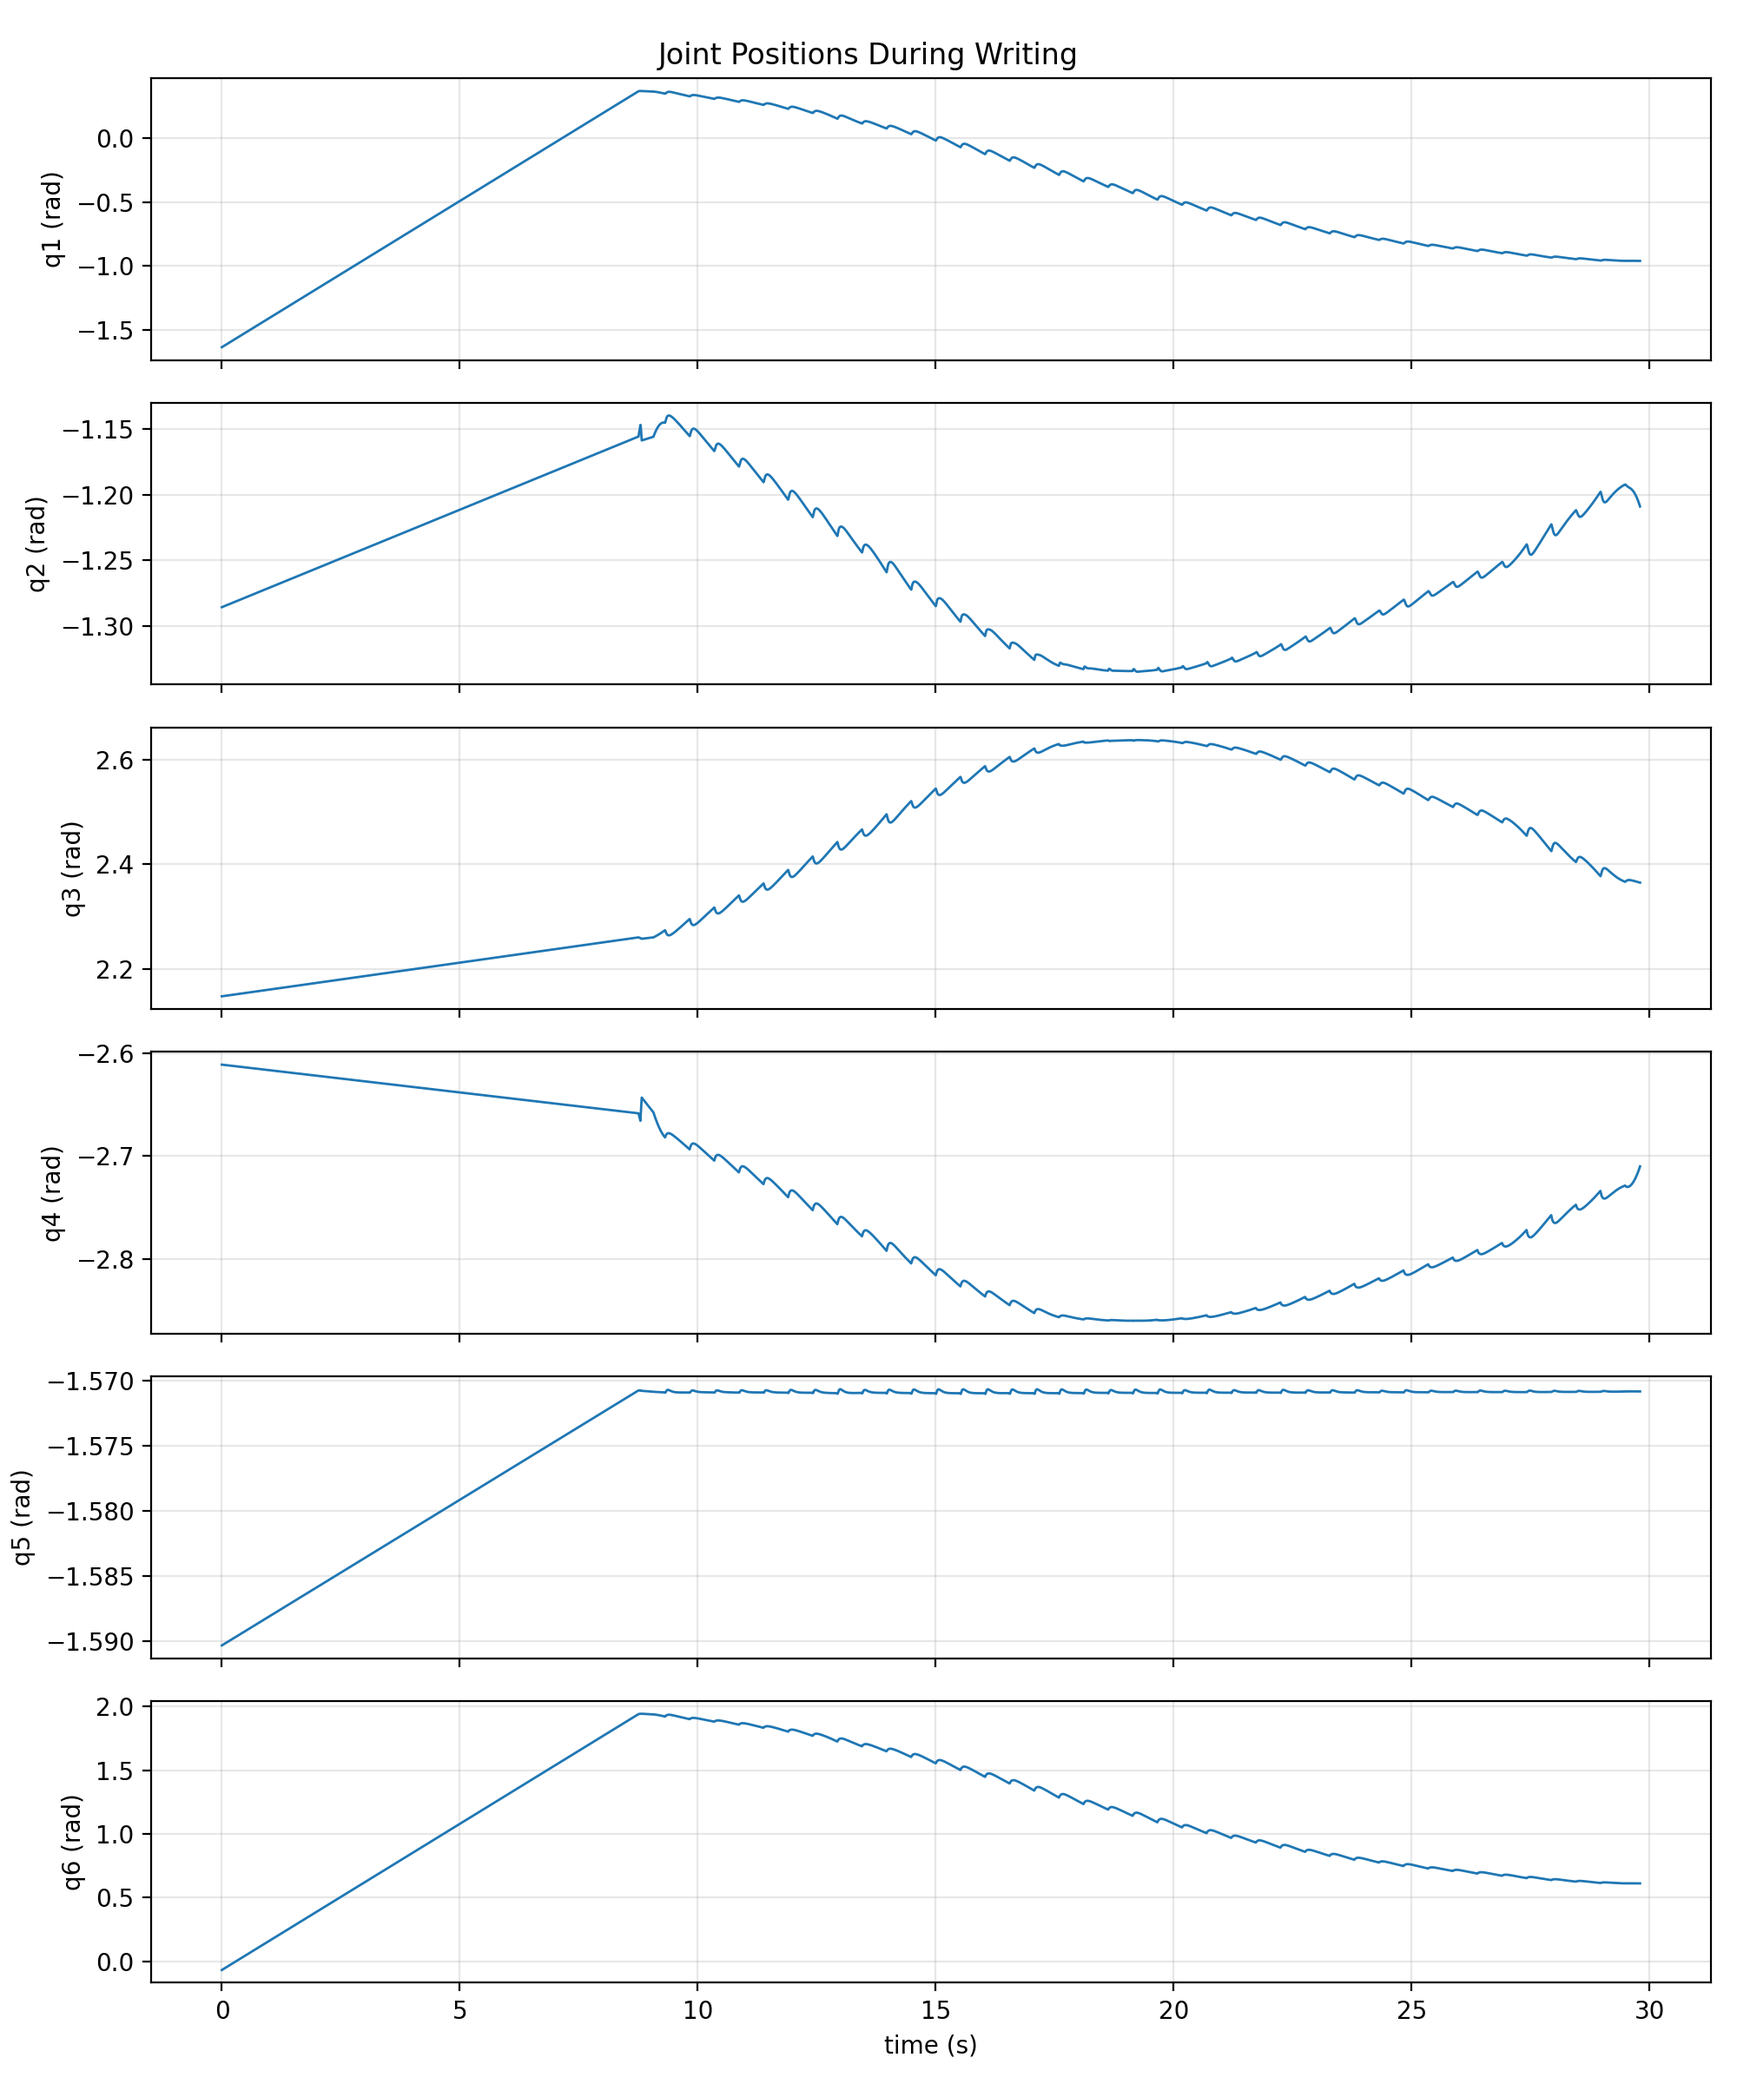
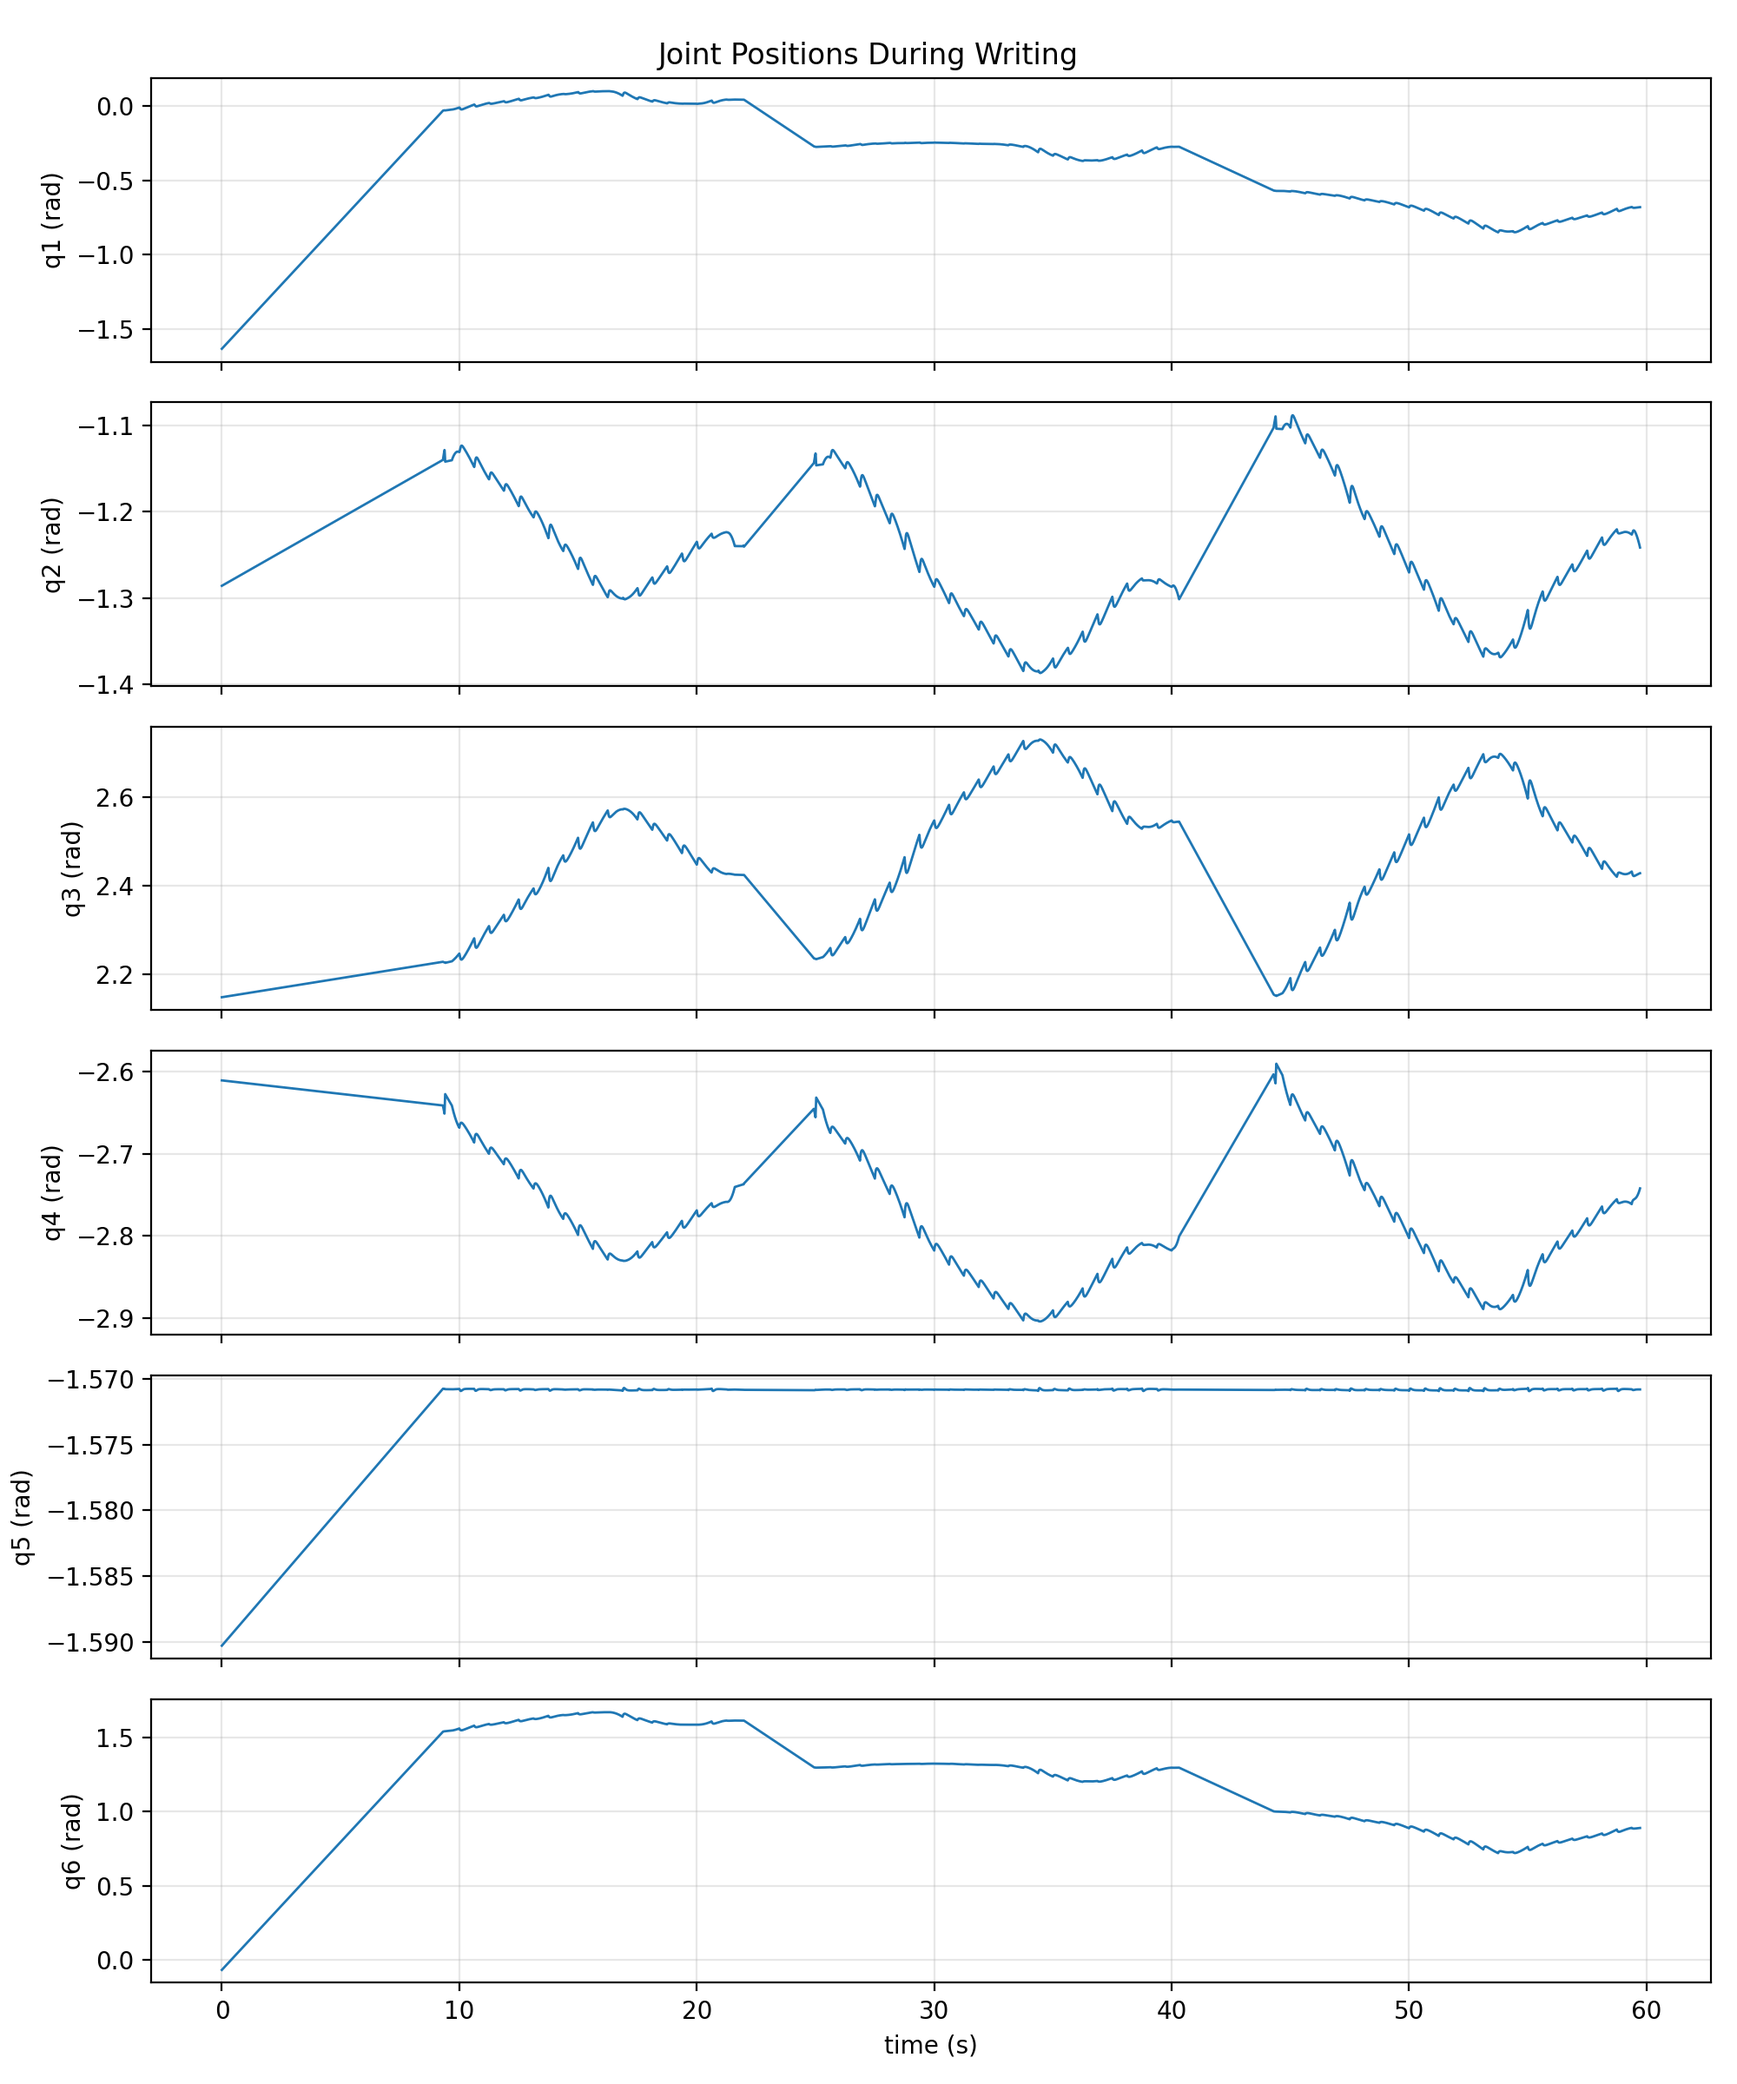
改了planning的曲面作图，哦对，我把curve_switch置为Fasle了

diff --git a/Project/SIST_SI100B_RoboWriter-main/scripts/lec5_planning/planning.py b/Project/SIST_SI100B_RoboWriter-main/scripts/lec5_planning/planning.py
@@ -10,9 +10,10 @@ from mujoco.glfw import glfw
 import numpy as np
 import os
 import scipy as sp
+import re
 
 xml_path = '../../models/universal_robots_ur5e/scene.xml' #xml file (assumes this is in the same folder as this file)
-simend = 180 #simulation time (second)
+simend = 70 #simulation time (second)
 
 # For callback functions
 button_left = False
@@ -201,6 +202,42 @@ joint_log_time = []
 joint_log_qpos = []
 joint_log_qvel = []
 
+def LoadCurveSwitchFromS(script_path: str):
+    """Read Curve_Switch=True/False from s.py without importing it (tkinter side effects)."""
+    try:
+        with open(script_path, "r", encoding="utf-8") as f:
+            text = f.read()
+    except OSError:
+        return False
+
+    m = re.search(r"^\s*Curve_Switch\s*=\s*(True|False)\b", text, flags=re.MULTILINE)
+    if not m:
+        return False
+    return m.group(1) == "True"
+
+
+CURVE_SWITCH = LoadCurveSwitchFromS(os.path.join(os.path.dirname(os.path.abspath(__file__)), "s.py"))
+print(f"Curve_Switch from s.py: {CURVE_SWITCH}")
+
+# Rendering/writing region definition
+SPHERE_CENTER = np.array([0.0, 0.35, 1.3], dtype=float)
+SPHERE_R2 = 4.0
+
+def ShouldRenderPoint(pos: np.ndarray):
+    """Two rendering modes:
+    - Planar (CURVE_SWITCH=False): render if z <= 0.1
+    - Curved (CURVE_SWITCH=True): render if z <= 0.1 and (x-0)^2+(y-0.35)^2+(z-1.3)^2 > 4
+    """
+    z_ok = float(pos[2]) <= WRITE_Z_THRESHOLD
+    if not CURVE_SWITCH:
+        return z_ok
+
+    dx = float(pos[0]) - float(SPHERE_CENTER[0])
+    dy = float(pos[1]) - float(SPHERE_CENTER[1])
+    dz = float(pos[2]) - float(SPHERE_CENTER[2])
+    sphere_expr = dx * dx + dy * dy + dz * dz
+    return z_ok and (sphere_expr > SPHERE_R2)
+
 def SaveJointStatePlots(output_dir, t_arr, qpos_arr, qvel_arr=None):
     try:
         import importlib
@@ -274,7 +311,7 @@ for i in range(1, len(qn)):
 qn = qn_interp
 
 #t_total = simend
-t_total = 30.0
+t_total = 60.0
 # Use quadratic interpolation (Quadratic Bezier) per segment.
 # Each segment uses 3 consecutive points: (q0, q1, q2).
 # Therefore, the number of segments is len(qn) - 2.
@@ -340,7 +377,7 @@ while not glfw.window_should_close(window):
         # Store trajectory
         mj_end_eff_pos = data.site_xpos[0]
         #print(mj_end_eff_pos)
-        is_writing = (mj_end_eff_pos[2] < WRITE_Z_THRESHOLD)
+        is_writing = ShouldRenderPoint(mj_end_eff_pos)
         if is_writing:
             # Check distance before adding
             should_add = False

diff --git a/Project/SIST_SI100B_RoboWriter-main/scripts/lec5_planning/s.py b/Project/SIST_SI100B_RoboWriter-main/scripts/lec5_planning/s.py
@@ -4,7 +4,7 @@ import numpy as np
 import math
 import os
 ###############################
-Curve_Switch=False
+Curve_Switch=True
 ###############################
 
 # --- 配置参数 ---
